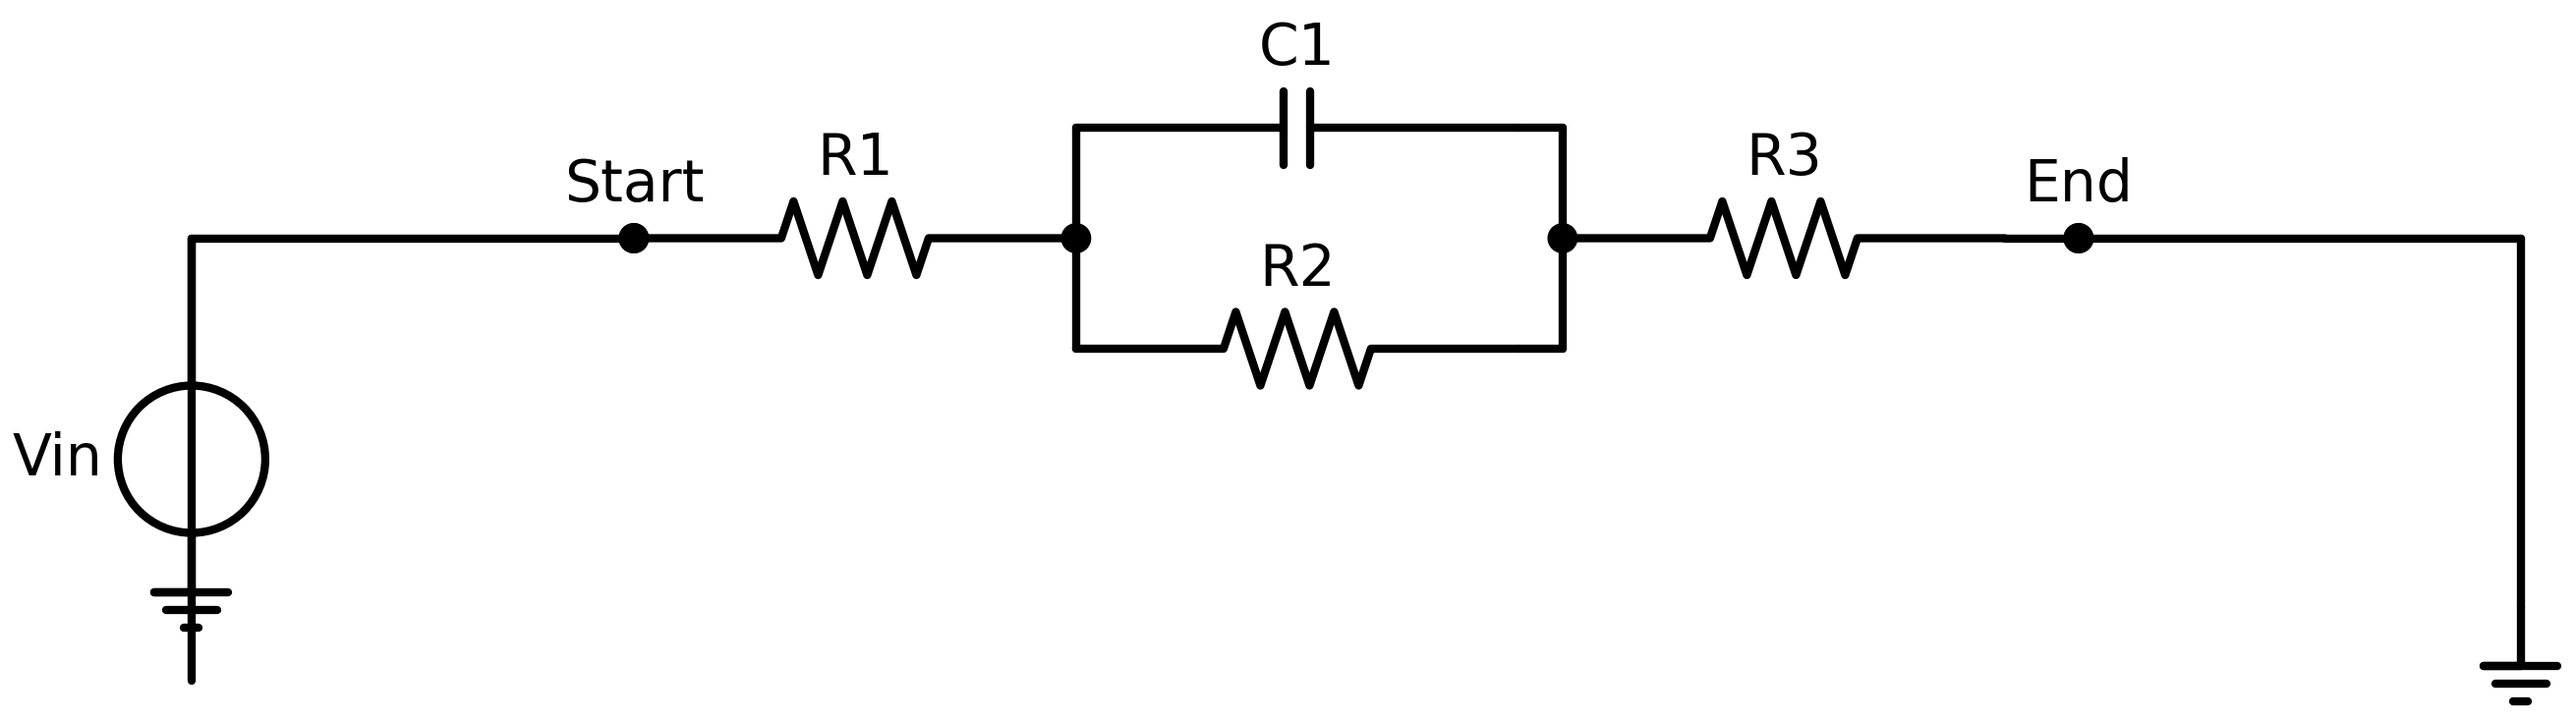
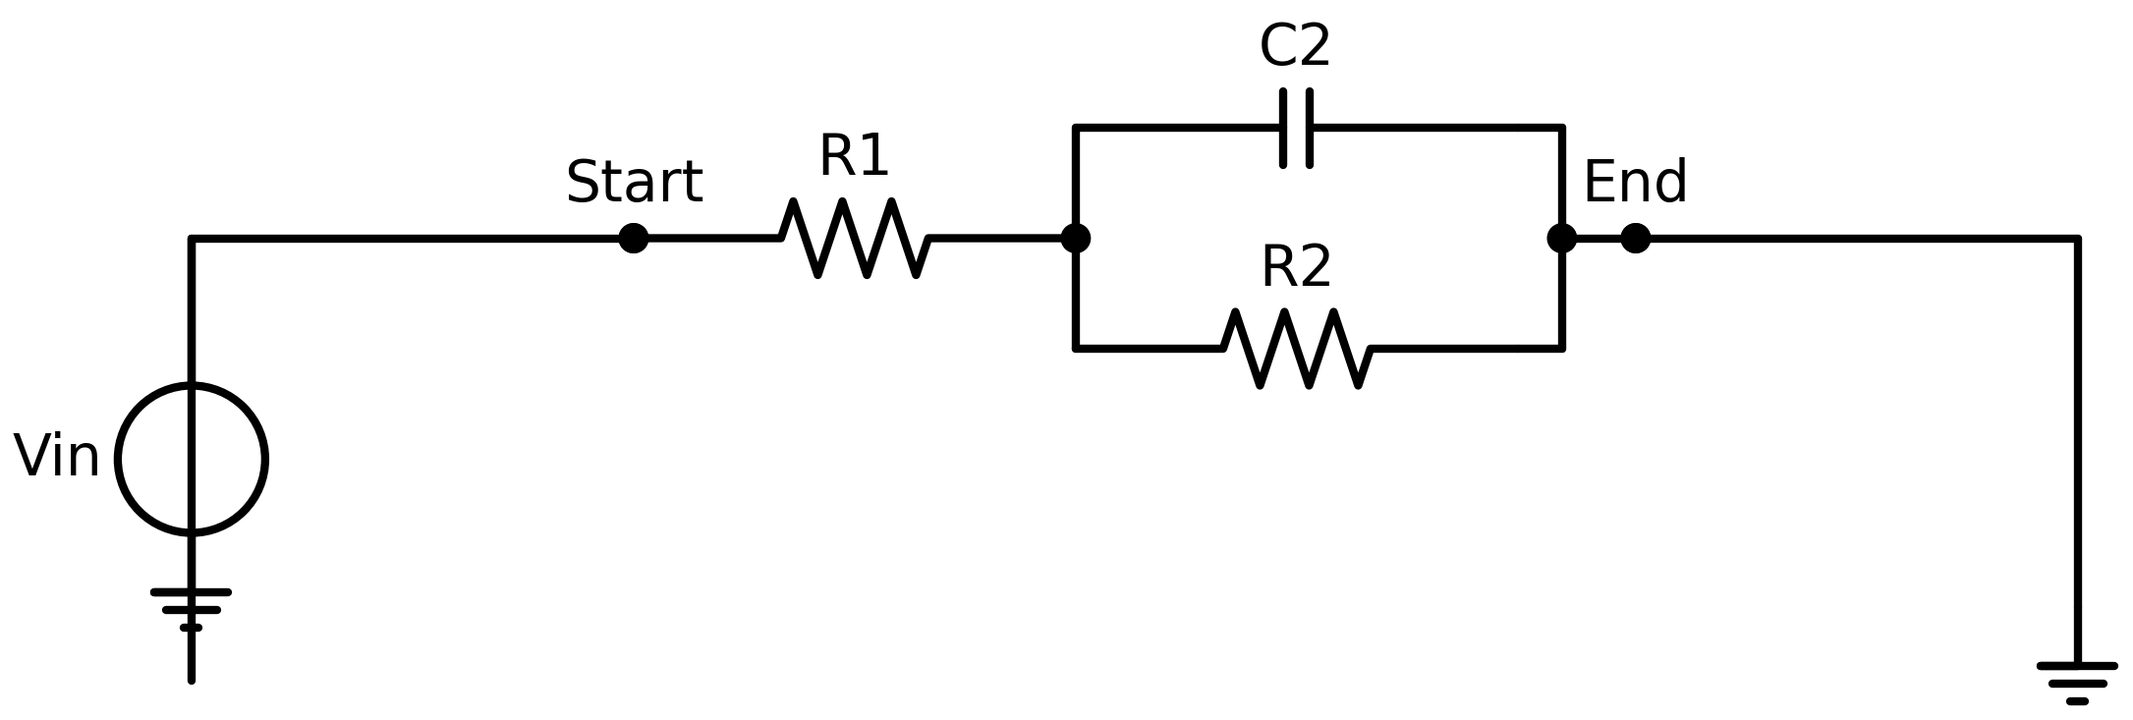
test

diff --git a/EIS/FigureFile/Figure.py b/EIS/FigureFile/Figure.py
@@ -72,6 +72,20 @@ class FigWidget(QWidget ,FigureUI):
         # Plotting 页面(纯 Input)会调用 set_processing_state_enabled(False) 关闭它们
         self._processing_state_enabled = True
 
+    def set_processing_state_enabled(self, enabled):
+        """
+        控制 Original / Processed 复选框的可用性。
+        Input/Simulation 模式下传入 False,关闭这两个无意义的复选框;
+        Processing/Fitting 模式下保持 True(默认)。
+        """
+        self._processing_state_enabled = enabled
+        self.figuregui.origindataCheckBox.setEnabled(enabled)
+        self.figuregui.processeddataCheckBox.setEnabled(enabled)
+        # 禁用时同时取消勾选,避免残留状态影响后续保存逻辑
+        if not enabled:
+            self.figuregui.origindataCheckBox.setChecked(False)
+            self.figuregui.processeddataCheckBox.setChecked(False)
+
 
 
 
@@ -439,6 +453,13 @@ class FigWidget(QWidget ,FigureUI):
     def selectsavedata(self, savelist):
         inputdata = list()
         inputdataname = list()
+        # 防御性检查:Input/Simulation 模式(复选框被禁用)直接返回全部数据
+        if not getattr(self, '_processing_state_enabled', True):
+            for i in range(0, len(self.plotdata)):
+                if savelist[i] == 1:
+                    inputdata.append(self.plotdata[i])
+                    inputdataname.append(self.plotdataname[i])
+            return inputdata, inputdataname, savelist
         if self.figuregui.origindataCheckBox.isChecked() == 0 and self.figuregui.processeddataCheckBox.isChecked() == 1:
             for i in range(0, len(savelist)):
                 if i % 2 == 0:  ###偶数

diff --git a/GUI/pages/ui_page_simulation.py b/GUI/pages/ui_page_simulation.py
@@ -32,6 +32,9 @@ class Ui_SimulationPage(object):
         self.simWg = Simu()# 仿真组件
         self.figureWg = FigWidget()# 绘图组件
 
+        # Simulation 页面(纯仿真模式)不区分原始/处理数据,关闭这两个无意义复选框
+        self.figureWg.set_processing_state_enabled(False)
+
         # 左侧区域 - 仿真和参考数据
         self.left_widget = QWidget(self.Simulation)
         self.left_widget.setObjectName("LeftWidget")

diff --git a/GUI/pages/ui_page_plotting.py b/GUI/pages/ui_page_plotting.py
@@ -34,6 +34,9 @@ class Ui_PlottingPage(object):
         self.inputWg = inputWidget()#左侧数据输入区
         self.figureWg= FigWidget()#右侧绘图区
 
+        # Plotting 页面(纯 Input 模式)不区分原始/处理数据,关闭这两个无意义复选框
+        self.figureWg.set_processing_state_enabled(False)
+
 
 
         # 左侧区域 - inputWg 内容

diff --git a/EIS/FigureFile/ui_Figure.py b/EIS/FigureFile/ui_Figure.py
@@ -160,7 +160,7 @@ class FigureUI():
             border_width=2,
             border_radius=3
         )
-        self.origindataCheckBox.setChecked(False)
+        self.processeddataCheckBox.setChecked(False)
         self.dataProcessingStateLayout.addWidget(self.processeddataCheckBox)
         self.dataProcessingStateLayout.setAlignment(Qt.AlignmentFlag.AlignLeft)
 
